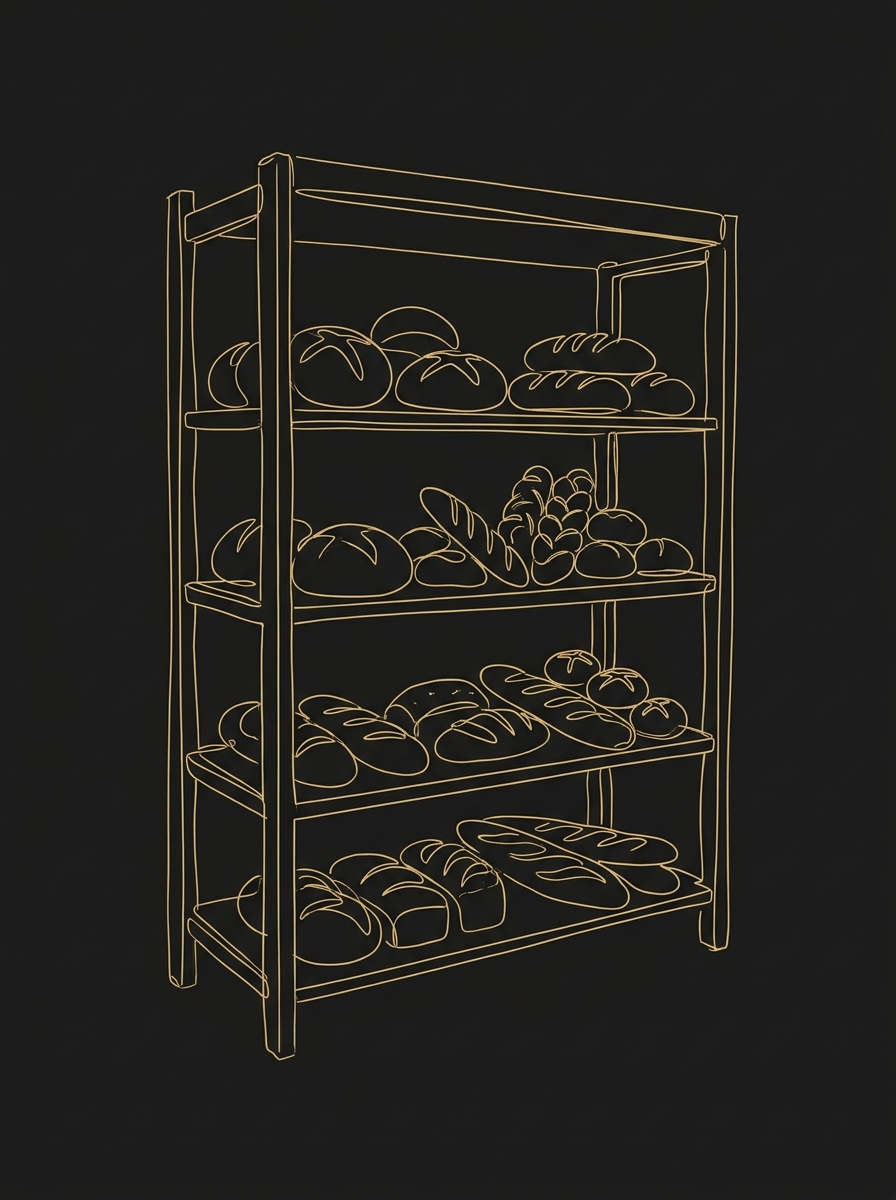
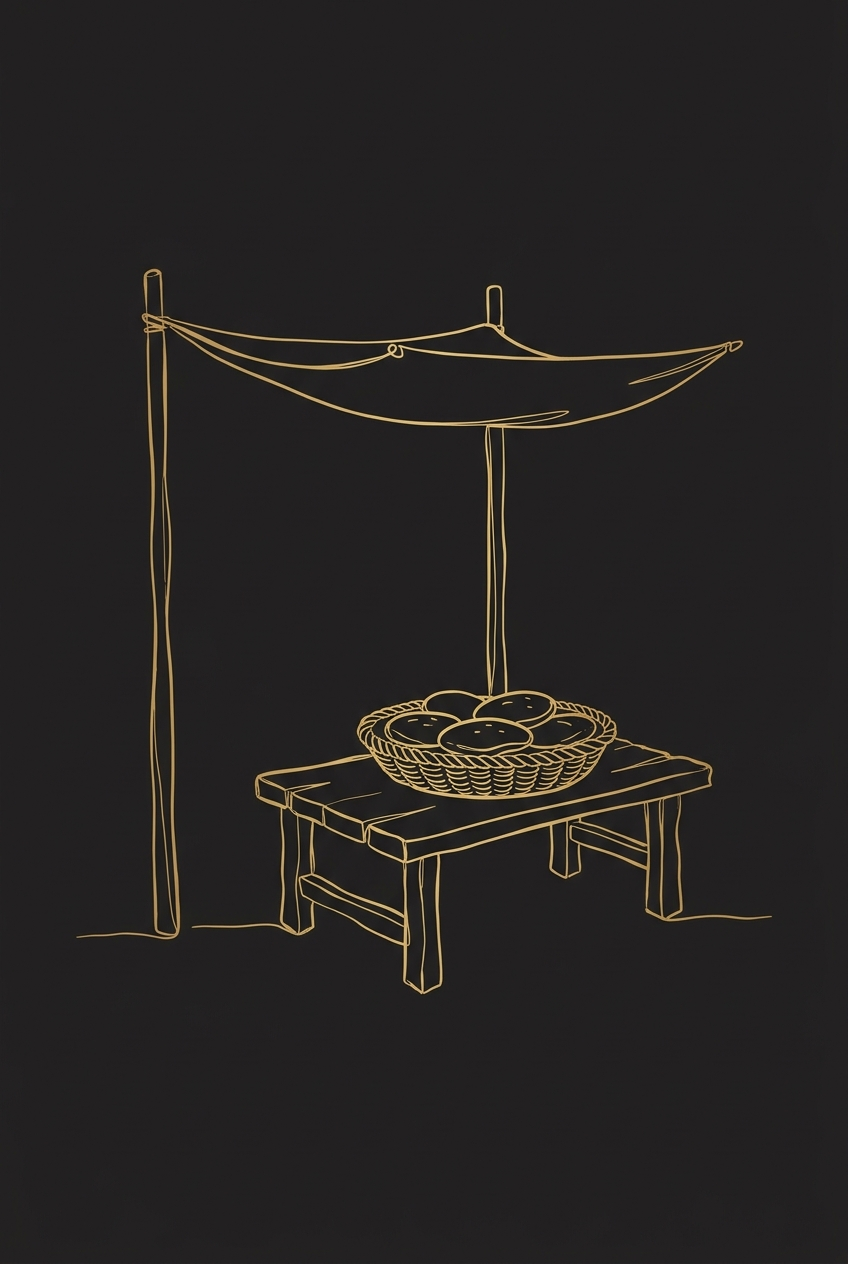
Recap walk L23: market stalls and one loaf handed over; no floating rock or Communion read
Claude-Session: https://claude.ai/code/session_01PUXW98g7GeRrNVaktcGhRj

Changed region(s): [[0.1533, 0.1233, 0.8892, 0.8942]]

diff --git a/tools/recap-video/places/l23.js b/tools/recap-video/places/l23.js
@@ -1,23 +1,20 @@
-// Lesson 23 (short stop): not a bread of life. THE bread of life. Stalls of bread on both sides fall away, one a beat,
-// until one loaf is left, and hands reach for it from every edge. One detail: the single loaf.
+// Lesson 23 (short stop): not a bread of life. THE bread of life.
+// An ordinary road, stalls going away down it, one per beat. Then, close up, one plain loaf in an open hand, held out, and a
+// second hand just taking it, one drawing. One detail: the loaf between the two hands. No altar, no raised loaf, no cupped hands in a line.
 export default async function (P) {
   await P.loadArt();
-  const stalls = [[-2.3, 7, 'stall2', 4.0, false], [2.5, 7.5, 'stall1', 4.6, true], [-3.3, 11, 'stall1', 5.0, false], [3.5, 11.5, 'stall2', 4.6, true], ];
-  const gone = P.evs('stall gone', 1, 1, stalls.length, 1);   // farthest stalls first, one per beat, through bar 1
-  const key = P.ev('key', 2, 1);                        // bar 2 beat 1: the last two go and the one loaf stands alone
-  const L = P.beats(1), order = [2, 3, 0, 1];
-  const A = stalls.map(([dx, d, n, h, flip]) => P.art(n, P.pathX(P.Z - d) + dx, P.Z - d, h, { flip, far: 24, near: 10, sil: 0.9 }));
-  const lz = P.Z - 5.6, lx = P.pathX(lz), loaf = P.art('loaf', lx, lz, 0.95, { y0: 1.1, far: 22, near: 8, gain: 1.5, sil: 0.95, turn: false });
-  const rock = P.art('s3', lx, lz + 0.02, 1.2, { far: 22, near: 8, sil: 0.95, turn: false });
-  const light = P.glow(lx, 1.7, lz - 0.1, 7, 0);
-  // hands from every edge, on beats after the key
-  const H = [[-1, 1.75, 0.0], [1, 1.45, 0.0], [-1, 1.05, 0.28], [1, 2.1, -0.22]];
-  const when = P.evs('hand', 2, 1, H.length, 1);
-  const hands = H.map(([s, y, tilt], i) => { const a = P.art('reach', 0, lz + 0.2 + i * 0.03, 0.72, { drawn: true, flip: s > 0, gain: 1.4, sil: 0.9, turn: false, fadeNear: false }); a.mesh.rotation.z = s * tilt * -1 + (s > 0 ? 0 : 0); return { a, s, y, t0: when[i] }; });
-  P.keep(loaf, { h: 2.6 });
+  const Z = P.Z, L = P.beats(1), vx = d => P.X + (P.pathX(Z - 12) - P.X) * d / 12;       // centre of the view from where you stop
+  const S = [[-3.4, 7, 'stall1', 4.1, false], [3.8, 10, 'stall2', 3.5, true], [-4.0, 15, 'stall2', 3.5, false], [4.0, 22, 'stall1', 4.0, true], [-4.0, 32, 'stall1', 4.0, false]];
+  const when = P.evs('stall', 0, 1, S.length, 1);                                        // nearest first, the last two as you stop
+  const stalls = S.map(([dx, d, n, h, flip], i) => P.artAt(n, P.pathX(Z - d) + dx, Z - d, h, when[i], 1, { flip, y0: -0.1, gain: 1.25, sil: 0.75, fadeNear: false }));
+  const offer = P.ev('held out', 1, 1), key = P.ev('key', 2, 1);                        // the hand-off draws itself over bar 1 and is whole on the key
+  const d = 2.8, hz = Z - d, cx = vx(d) + 0.02, h = 2.6 / 3.4908, ly = 1.52;              // wider than the screen, so both arms run off the edges; low, clear of the stalls and the track
+  const handoff = P.artAt('handoff', cx - 0.1, hz, h, offer, 4, { y0: ly - h / 2, gain: 1.5, sil: 0.7, turn: false, fadeNear: false, fog: false });
+  const warm = P.glow(cx, ly, hz - 0.1, 2.4, 0);
+  P.keep(handoff, { h: 1.3 });
   return { update(t) {
-    A.forEach((a, i) => { const o = order.indexOf(i), g = gone[o]; a.u.uA.value = 1 - seg(t, g, g + L * 1.5); });
-    light.material.opacity = 0.42 * seg(t, key, key + L * 3) * (1 + 0.15 * P.pulse(t));
-    hands.forEach(({ a, s, y, t0 }) => { const u = P.smooth(clamp((t - t0) / (L * 3))); a.u.uA.value = clamp((t - t0) / (L * 1.5)); const w = a.mesh.geometry.parameters.width; a.mesh.position.set(lx + s * (lerp(2.5, 0.55, u) + w / 2), y, lz + 0.2); });
+    const out = 1 - seg(t, P.T.leave, P.T.leave + L);
+    stalls.forEach(a => { a.u.uA.value = out; }); handoff.u.uA.value = out; handoff.u.uSil.value = 0.6 * seg(t, key - L, key + L);   // lines first, so no dark shape before the drawing is there
+    warm.material.opacity = seg(t, offer, offer + L * 2) * out * (0.14 + 0.04 * P.listen('keys', t));
   } };
 }
